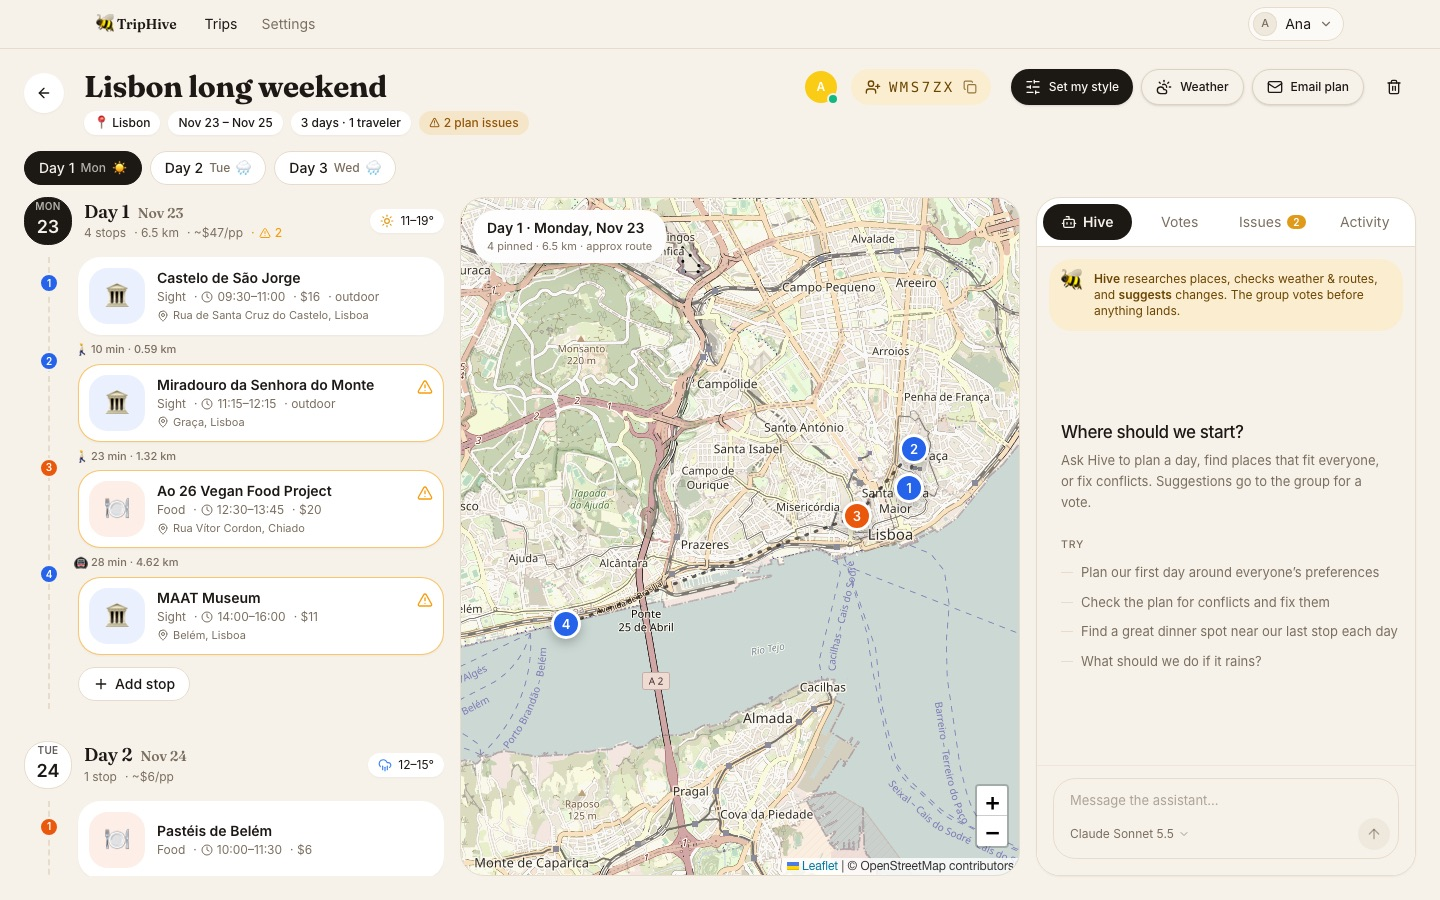
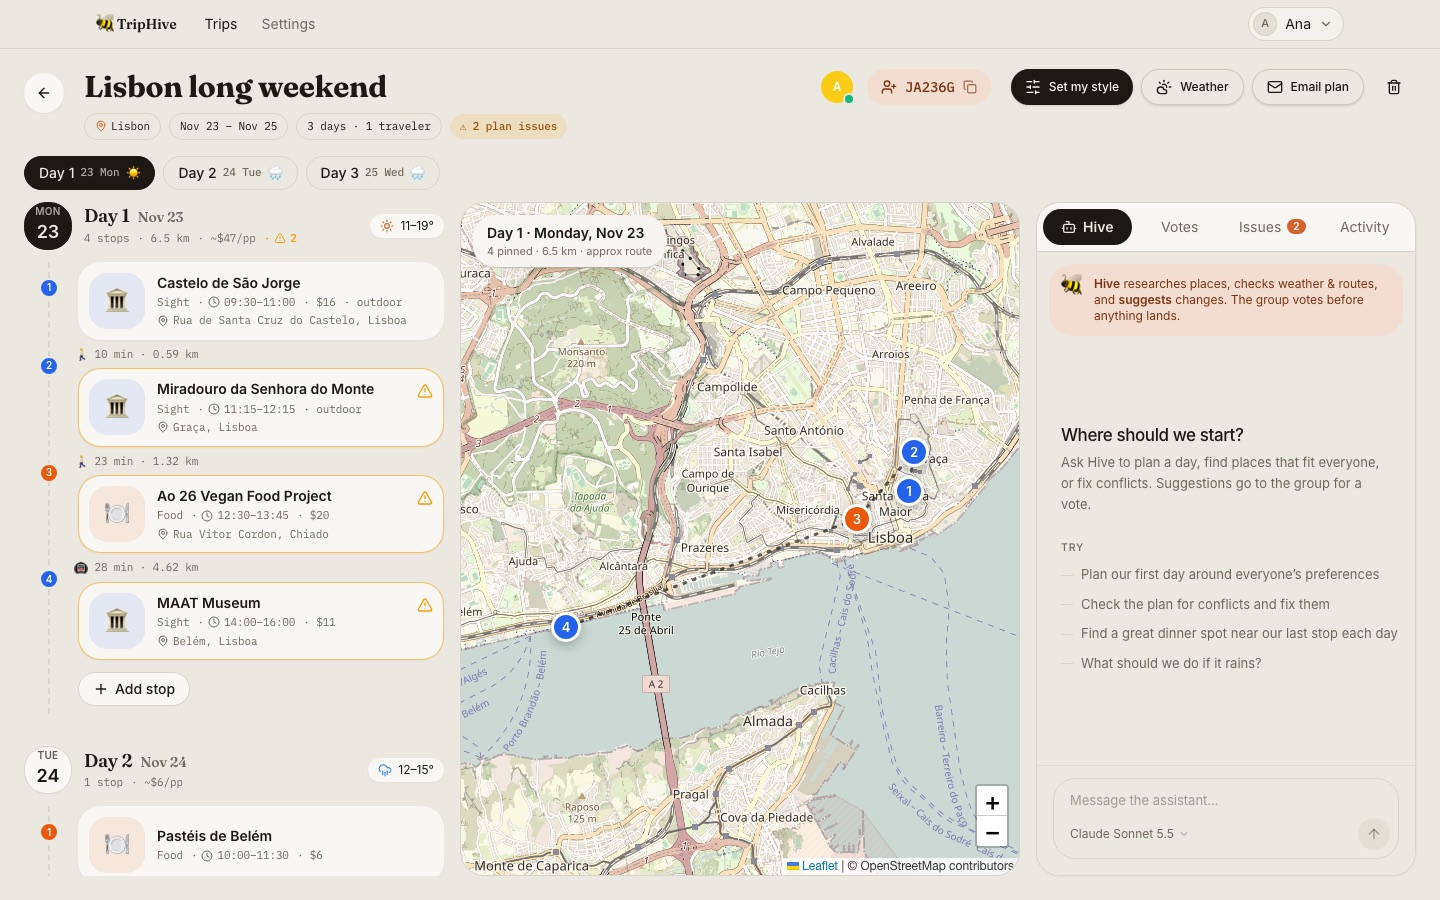
Fix map overlapping dialogs (isolate Leaflet stacking context); OSM fallback geocoding for regions; Places-inspired greige/orange/mono styling
Claude-Session: https://claude.ai/code/session_01PQ5Yvpaxo5P5TS9Tz1FL2C

diff --git a/src/pages/(app)/(protected)/trips/[id].tsx b/src/pages/(app)/(protected)/trips/[id].tsx
@@ -1,7 +1,7 @@
 import { useCallback, useEffect, useMemo, useRef, useState } from 'react'
 import { Link, useNavigate, useParams } from 'react-router-dom'
 import { getUserColor, listDeepSpaceAgentModels, useAuth, useMutations, usePresenceRoom, useQuery, useUsers, type RecordData } from 'deepspace'
-import { ArrowLeft, Bot, CloudSun, Copy, Mail, SlidersHorizontal, Trash2, UserPlus } from 'lucide-react'
+import { ArrowLeft, Bot, CloudSun, Copy, Mail, MapPin, SlidersHorizontal, Trash2, UserPlus } from 'lucide-react'
 import { Button, ConfirmModal, cn, useToast } from '@/components/ui'
 import { ChatPanel } from '@/components/ChatPanel'
 import { ItineraryDay, StopModal, weekday } from '@/components/trip/Board'
@@ -141,12 +141,12 @@ export default function TripPage() {
           </Link>
           <div className="min-w-0 flex-1">
             <h1 className="font-display truncate text-3xl font-bold tracking-tight">{t.title}</h1>
-            <div className="mt-1.5 flex flex-wrap items-center gap-2 text-xs">
-              <span className="rounded-full bg-card px-2.5 py-1 font-medium shadow-[var(--shadow-card)]">📍 {t.destination}</span>
-              <span className="rounded-full bg-card px-2.5 py-1 font-medium shadow-[var(--shadow-card)]">
+            <div className="mt-2 flex flex-wrap items-center gap-2 font-mono text-[11px]">
+              <span className="flex items-center gap-1 rounded-full border border-border px-2.5 py-1"><MapPin className="size-3 text-honey" /> {t.destination}</span>
+              <span className="rounded-full border border-border px-2.5 py-1">
                 {weekday(t.startDate, { month: 'short', day: 'numeric' })} – {weekday(t.endDate, { month: 'short', day: 'numeric' })}
               </span>
-              <span className="rounded-full bg-card px-2.5 py-1 font-medium shadow-[var(--shadow-card)]">
+              <span className="rounded-full border border-border px-2.5 py-1">
                 {dates.length} day{dates.length === 1 ? '' : 's'} · {members.length} traveler{members.length === 1 ? '' : 's'}
               </span>
               {issues.length > 0 && (
@@ -186,7 +186,7 @@ export default function TripPage() {
                 navigator.clipboard.writeText(t.inviteCode)
                 toast.success('Invite code copied', `Friends join at /trips with ${t.inviteCode}`)
               }}
-              className="flex items-center gap-2 rounded-full bg-honey-soft px-3.5 py-2 text-sm font-medium text-[#6b4500] transition hover:brightness-95"
+              className="flex items-center gap-2 rounded-full bg-honey-soft px-3.5 py-2 text-sm font-medium text-[#7a3412] transition hover:brightness-95"
               data-testid="invite-code"
               title="Copy invite code"
             >
@@ -225,11 +225,11 @@ export default function TripPage() {
                 onClick={() => selectDay(d)}
                 className={cn(
                   'flex shrink-0 items-center gap-1.5 rounded-full border px-3.5 py-1.5 text-sm font-medium transition',
-                  mapDate === d ? 'border-foreground bg-foreground text-background' : 'border-border bg-card hover:border-foreground/40',
+                  mapDate === d ? 'border-foreground bg-foreground text-background' : 'border-border hover:border-foreground/40',
                 )}
               >
                 Day {i + 1}
-                <span className={cn('text-xs', mapDate === d ? 'opacity-70' : 'text-muted-foreground')}>{weekday(d, { weekday: 'short' })}</span>
+                <span className={cn('font-mono text-[11px]', mapDate === d ? 'opacity-70' : 'text-muted-foreground')}>{weekday(d, { weekday: 'short', day: 'numeric' })}</span>
                 {fc && <span className="text-xs">{fc.rain ? '🌧' : '☀'}</span>}
               </button>
             )
@@ -328,7 +328,7 @@ export default function TripPage() {
                     localStorage.setItem(chatKey, id)
                   }}
                   header={
-                    <div className="mx-3 mt-3 flex gap-3 rounded-2xl bg-honey-soft p-3 text-xs text-[#6b4500]">
+                    <div className="mx-3 mt-3 flex gap-3 rounded-2xl bg-honey-soft p-3 text-xs text-[#7a3412]">
                       <span className="text-lg leading-none">🐝</span>
                       <p>
                         <b>Hive</b> researches places, checks weather & routes, and <b>suggests</b> changes. The group votes before anything lands.

diff --git a/src/components/trip/Board.tsx b/src/components/trip/Board.tsx
@@ -63,7 +63,7 @@ export function ItineraryDay({
             {index != null ? `Day ${index + 1}` : 'Outside trip dates'}
             <span className="ml-2 text-sm font-normal text-muted-foreground">{weekday(date, { month: 'short', day: 'numeric' })}</span>
           </p>
-          <p className="mt-0.5 flex flex-wrap items-center gap-x-2 text-xs text-muted-foreground">
+          <p className="mt-0.5 flex flex-wrap items-center gap-x-2 font-mono text-[11px] text-muted-foreground">
             <span>
               {ordered.length} stop{ordered.length === 1 ? '' : 's'}
             </span>
@@ -92,7 +92,7 @@ export function ItineraryDay({
           return (
             <div key={s.id} className="relative">
               {leg && (
-                <p className="-ml-1 py-1.5 text-[11px] font-medium text-muted-foreground">
+                <p className="-ml-1 py-1.5 font-mono text-[11px] text-muted-foreground">
                   {leg.mode === 'walk' ? '🚶' : '🚇'} {leg.minutes} min · {leg.km} km
                 </p>
               )}
@@ -147,12 +147,12 @@ function StopCard({ stop, flagged, editors, onClick }: { stop: RecordData<Stop>;
         <div className="flex items-center gap-1.5">
           <p className="truncate font-semibold leading-snug">{d.title}</p>
           {d.source === 'ai' && (
-            <span className="flex shrink-0 items-center gap-0.5 rounded-full bg-honey-soft px-1.5 py-0.5 text-[10px] font-medium text-[#8a5a00]">
+            <span className="flex shrink-0 items-center gap-0.5 rounded-full bg-honey-soft px-1.5 py-0.5 text-[10px] font-medium text-[#8a3a14]">
               <Bot className="size-3" /> Hive
             </span>
           )}
         </div>
-        <p className="mt-0.5 flex flex-wrap items-center gap-x-2 text-xs text-muted-foreground">
+        <p className="mt-0.5 flex flex-wrap items-center gap-x-2 font-mono text-[11px] text-muted-foreground">
           <span>{meta.label}</span>
           {d.start && (
             <span className="flex items-center gap-1">
@@ -165,7 +165,7 @@ function StopCard({ stop, flagged, editors, onClick }: { stop: RecordData<Stop>;
           {!!d.outdoor && <span>· outdoor</span>}
         </p>
         {d.address && (
-          <p className="mt-0.5 flex min-w-0 items-center gap-1 text-[11px] text-muted-foreground">
+          <p className="mt-0.5 flex min-w-0 items-center gap-1 font-mono text-[11px] text-muted-foreground">
             <MapPin className="size-3 shrink-0" />
             <span className="truncate">{d.address.split(',').slice(0, 2).join(',')}</span>
           </p>

diff --git a/src/server/trips.ts b/src/server/trips.ts
@@ -139,7 +139,8 @@ export async function createTrip(
   if (!YMD.test(startDate) || !YMD.test(endDate) || endDate < startDate) throw new TripError('Invalid dates')
   if (tripDates(startDate, endDate).length > 21) throw new TripError('Trips are limited to 21 days')
 
-  const coords = await geocodeCity(tools, destination)
+  // OWM knows cities; fall back to OSM for regions/landmarks ("Meghalaya", "Amalfi Coast").
+  const coords = (await geocodeCity(tools, destination)) ?? (await geocodePlace(destination, undefined, 1).then((h) => (h[0] ? { lat: h[0].lat, lng: h[0].lng } : null)).catch(() => null))
   const tripId = `trip_${crypto.randomUUID().replace(/-/g, '').slice(0, 20)}`
   unwrap(
     await tools.create('trips', {
@@ -268,6 +269,16 @@ export async function geocodePlace(query: string, near?: { lat?: number; lng?: n
 export async function refreshWeather(tools: ActionTools, tripId: string) {
   const trip = await getTrip(tools, tripId)
   if (!trip) throw new TripError('Trip not found')
+  // Backfill coordinates for trips whose destination the city geocoder missed
+  // (before the forecast call, which can fail for region names).
+  if (typeof trip.data.lat !== 'number') {
+    const hit = (await geocodePlace(trip.data.destination, undefined, 1).catch(() => []))[0]
+    if (hit) {
+      await tools.update('trips', tripId, { lat: hit.lat, lng: hit.lng })
+      trip.data.lat = hit.lat
+      trip.data.lng = hit.lng
+    }
+  }
   const r = await tools.integration<Array<{ dt: number; temp: number; description: string }>>('openweathermap/forecast', {
     q: trip.data.destination,
     units: 'metric',

diff --git a/src/themes.css b/src/themes.css
@@ -45,33 +45,33 @@
   --color-shell-panel: #ffffff;
 }
 
-/* Honey — TripHive: warm cream paper, ink primary (pill buttons), honey accents. */
+/* Honey — TripHive: warm greige paper, ink primary pills, burnt-orange accents, mono metadata (after Places). */
 [data-theme="honey"] {
   color-scheme: light;
-  --color-background: #f6f2ea;
+  --color-background: #ebe8e1;
   --color-foreground: #1c1814;
-  --color-card: #ffffff;
+  --color-card: #f8f7f3;
   --color-card-foreground: #1c1814;
   --color-popover: #ffffff;
   --color-popover-foreground: #1c1814;
   --color-primary: #1c1814;
   --color-primary-foreground: #fbf8f2;
-  --color-secondary: #ede6d8;
+  --color-secondary: #e3dfd6;
   --color-secondary-foreground: #1c1814;
-  --color-muted: #efe9dd;
-  --color-muted-foreground: #7a6f5f;
-  --color-accent: #f1e8d6;
+  --color-muted: #e3dfd6;
+  --color-muted-foreground: #6f685d;
+  --color-accent: #e6e1d6;
   --color-accent-foreground: #1c1814;
   --color-destructive: #c2410c;
   --color-destructive-foreground: #ffffff;
-  --color-border: #e6dccb;
-  --color-input: #ddd2bf;
-  --color-ring: #e09a1a;
+  --color-border: #d9d4c9;
+  --color-input: #cfc9bc;
+  --color-ring: #d4622a;
   --radius: 0.9rem;
   --shadow-card: 0 1px 2px 0 rgba(60, 40, 10, 0.05);
   --shadow-card-hover: 0 8px 24px -6px rgba(60, 40, 10, 0.14);
-  --color-shell: #efe8db;
-  --color-shell-panel: #fbf8f2;
-  --color-honey: #e09a1a;
-  --color-honey-soft: #fbedd0;
+  --color-shell: #e4e0d7;
+  --color-shell-panel: #f4f2ed;
+  --color-honey: #d4622a;
+  --color-honey-soft: #f3ddd0;
 }

diff --git a/index.html b/index.html
@@ -12,7 +12,7 @@
     <title>TripHive — plan trips together</title>
     <link rel="preconnect" href="https://fonts.googleapis.com" />
     <link rel="preconnect" href="https://fonts.gstatic.com" crossorigin />
-    <link href="https://fonts.googleapis.com/css2?family=Fraunces:opsz,wght@9..144,600;9..144,700&family=Inter:wght@400;500;600&display=swap" rel="stylesheet" />
+    <link href="https://fonts.googleapis.com/css2?family=Fraunces:opsz,wght@9..144,600;9..144,700&family=Inter:wght@400;500;600&family=IBM+Plex+Mono:wght@400;500&display=swap" rel="stylesheet" />
     <!--
       First-paint background, keyed to the data-theme attribute above.
       Without this the browser paints white until the CSS bundle arrives —
@@ -23,7 +23,7 @@
     <style>
       html { background-color: #0a0a0a; color-scheme: dark; }
       html[data-theme="paper"] { background-color: #ffffff; color-scheme: light; }
-      html[data-theme="honey"] { background-color: #f6f2ea; color-scheme: light; }
+      html[data-theme="honey"] { background-color: #ebe8e1; color-scheme: light; }
     </style>
   </head>
   <body>

diff --git a/src/components/trip/RouteMap.tsx b/src/components/trip/RouteMap.tsx
@@ -82,7 +82,7 @@ export function RouteMap({ trip, stops, date, label }: { trip: Trip; stops: Reco
   }, [located, ordered, trip.lat, trip.lng])
 
   return (
-    <div className="relative h-full min-h-[360px] overflow-hidden rounded-3xl border border-border">
+    <div className="relative isolate z-0 h-full min-h-[360px] overflow-hidden rounded-3xl border border-border">
       <div ref={el} className="absolute inset-0" />
       <div className="pointer-events-none absolute left-3 top-3 z-[500] rounded-2xl bg-card/95 px-3.5 py-2 shadow-[var(--shadow-card-hover)] backdrop-blur">
         <p className="text-sm font-semibold">{label}</p>

diff --git a/src/styles.css b/src/styles.css
@@ -247,3 +247,4 @@ body { font-family: 'Inter', ui-sans-serif, system-ui, sans-serif; }
 .scrollbar-none { scrollbar-width: none; }
 .scrollbar-none::-webkit-scrollbar { display: none; }
 .th-tiles { filter: saturate(0.55) sepia(0.18) brightness(1.03) contrast(0.95); }
+.font-mono { font-family: 'IBM Plex Mono', ui-monospace, SFMono-Regular, Menlo, monospace; letter-spacing: -0.01em; }
